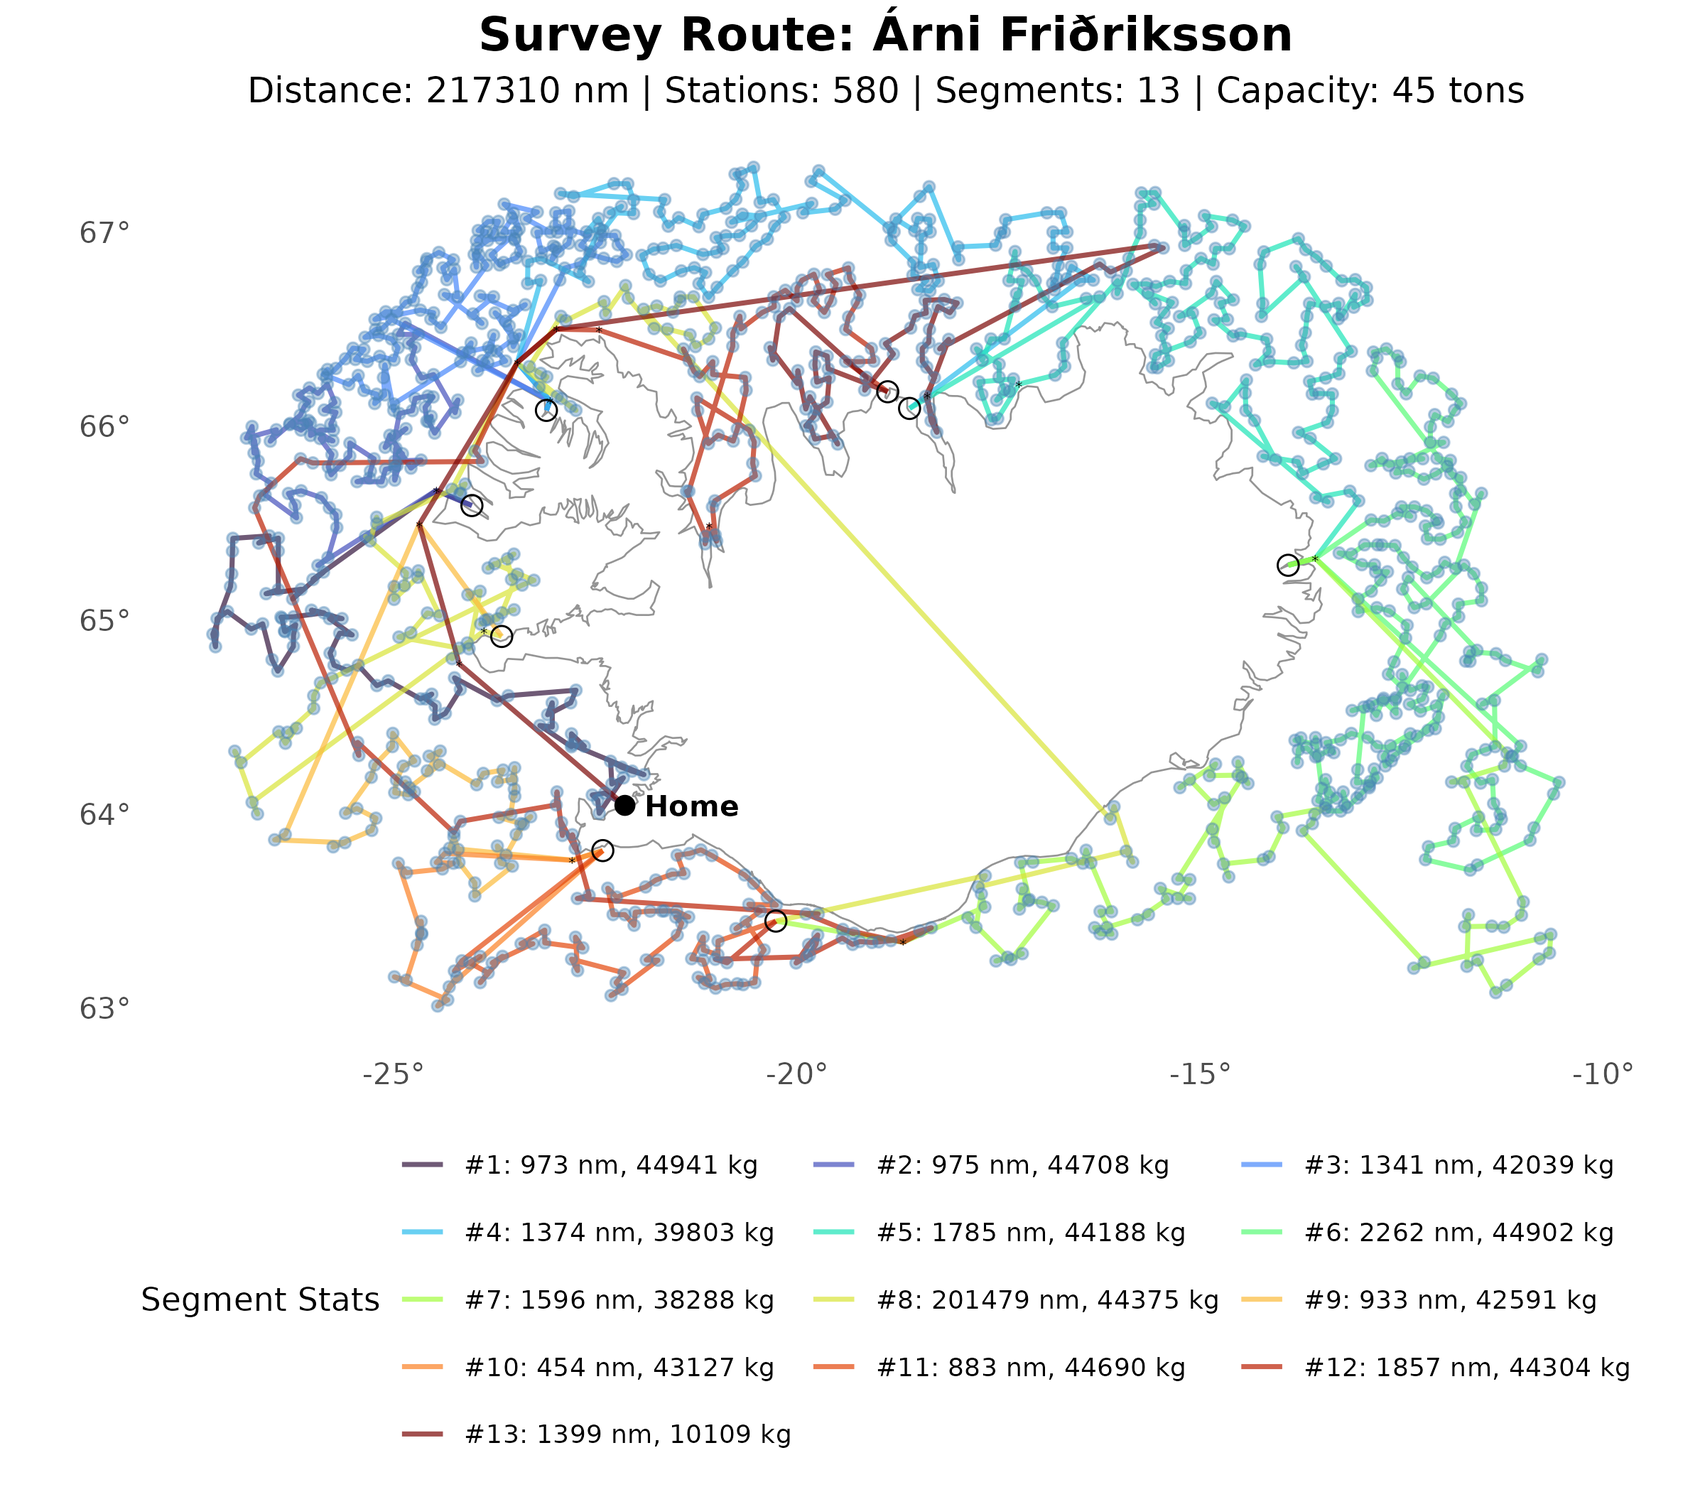
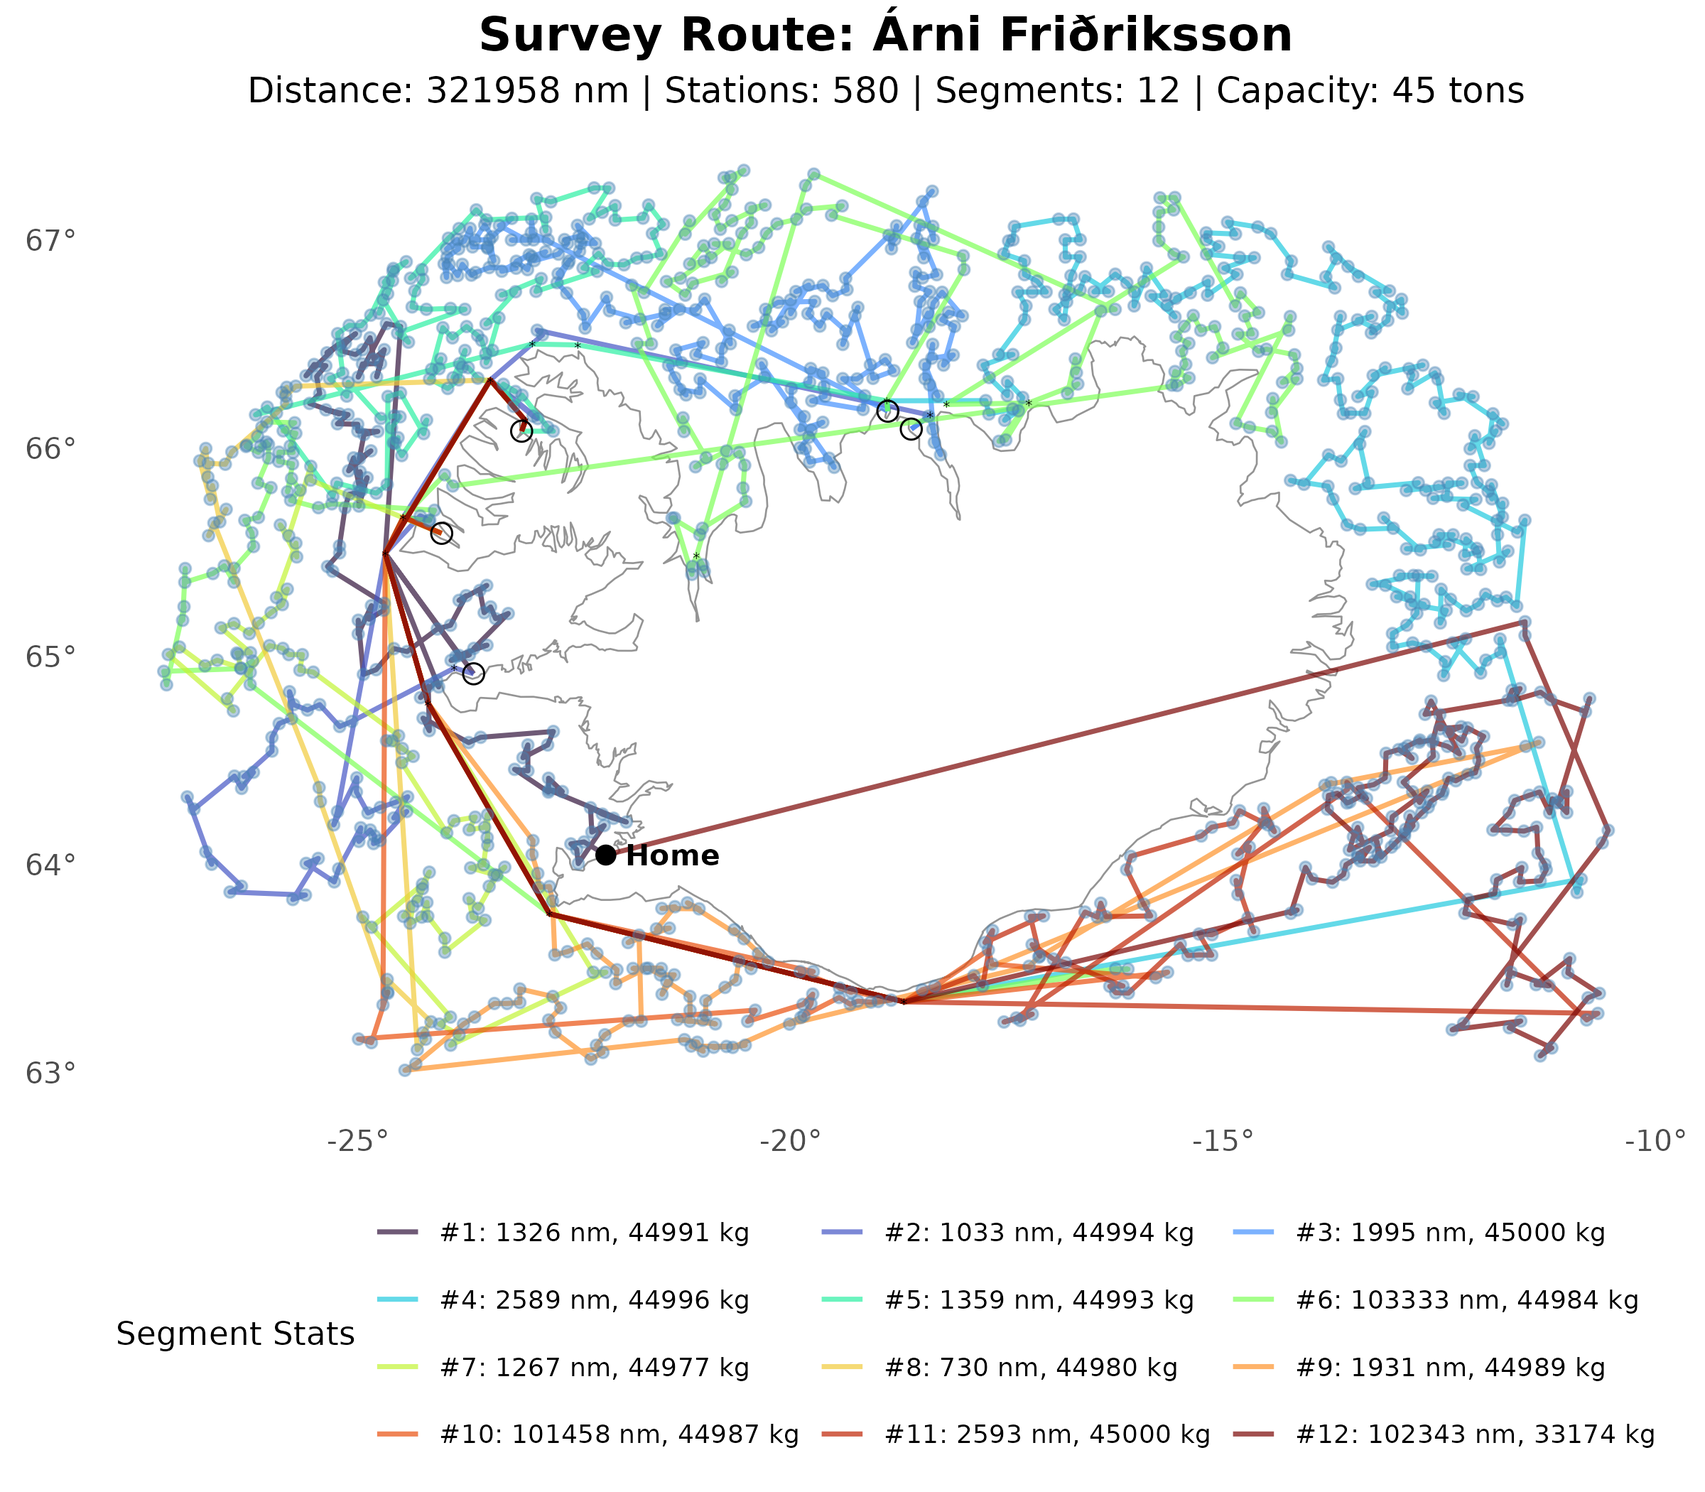
Refactor: Algorithm matches original src/matcapmutheur_v3.c build_greedy_visits.
Note: Change amount type to int as per database schema

diff --git a/src-refactor/init/nearest_neighbor.c b/src-refactor/init/nearest_neighbor.c
@@ -1,5 +1,11 @@
 /* Nearest Neighbor Heuristic with Capacity-Aware Segmentation
- * Uses pre-loaded distance matrix from database
+ *
+ * 1. Start from boat location with empty load
+ * 2. Greedily pick nearest unvisited station that fits capacity
+ * 3. If capacity blocks all options, retry without capacity filter (fallback)
+ * 4. When no station is reachable, insert nearest port and reset load
+ * 5. After visiting a station, if load >= capacity and more remain, insert port
+ * 6. Segment boundaries occur at port insertions
  */
 
 #include <stdio.h>
@@ -8,91 +14,184 @@
 #include "nearest_neighbor.h"
 #include "init_utils.h"
 
-/* Nearest Neighbor with capacity-aware segmentation */
 int nn_solve(const nn_instance_t *inst, nn_solution_t *sol,
              int boat_start_loc_id, int boat_end_loc_id,
-             int boat_capacity) {
-
+             int boat_capacity)
+{
     int total_nodes = inst->num_stations + inst->num_ports;
-
-    // Allocate growable route/segment containers used by the solver output.
     int *visited = (int*)calloc((size_t)total_nodes, sizeof(int));
 
+    // Growable containers for tour and segments
     int tour_cap = 256;
     int *tour_nodes = (int*)malloc((size_t)tour_cap * sizeof(int));
     int tour_len = 0;
 
-    int seg_starts_cap = 64;
-    int seg_ends_cap = 64;
-    int seg_catches_cap = 64;
-    int seg_dists_cap = 64;
+    int seg_starts_cap = 64, seg_ends_cap = 64, seg_catches_cap = 64, seg_dists_cap = 64;
     int *segment_starts = (int*)malloc((size_t)seg_starts_cap * sizeof(int));
     int *segment_ends = (int*)malloc((size_t)seg_ends_cap * sizeof(int));
     int *segment_catches = (int*)malloc((size_t)seg_catches_cap * sizeof(int));
     double *segment_dists = (double*)malloc((size_t)seg_dists_cap * sizeof(double));
     int segment_count = 0;
 
-    int visit_ids_cap = 256;
-    int visit_seg_cap = 256;
+    int visit_ids_cap = 256, visit_seg_cap = 256;
     int *visit_station_ids = (int*)malloc((size_t)visit_ids_cap * sizeof(int));
     int *visit_station_segment = (int*)malloc((size_t)visit_seg_cap * sizeof(int));
     int visit_station_count = 0;
 
     if (!visited || !tour_nodes || !segment_starts || !segment_ends || !segment_catches ||
         !segment_dists || !visit_station_ids || !visit_station_segment) {
-        free(visited);
-        free(tour_nodes);
-        free(segment_starts);
-        free(segment_ends);
-        free(segment_catches);
-        free(segment_dists);
-        free(visit_station_ids);
+        free(visited); free(tour_nodes); free(segment_starts); free(segment_ends);
+        free(segment_catches); free(segment_dists); free(visit_station_ids);
         free(visit_station_segment);
         return -1;
     }
 
-    int current_loc_id = boat_start_loc_id;
+    int current_node_idx = -1;  // -1 = boat (use boat_start_loc_id)
     int current_load = 0;
     double current_segment_dist = 0.0;
     int segment_start_idx = 0;
+    int remaining_stations = inst->num_stations;
 
-    printf("[NN] Start: loc=%d cap=%d stations=%d ports=%d\n",
-           boat_start_loc_id, boat_capacity, inst->num_stations, inst->num_ports);
+    printf("[NN] Start: boat_start=%d boat_end=%d cap=%d stations=%d ports=%d\n",
+           boat_start_loc_id, boat_end_loc_id, boat_capacity, inst->num_stations, inst->num_ports);
 
-    while (1) {
-        double min_dist = 1e100;
-        int nearest_station = -1;
+    while (remaining_stations > 0) {
+        double best_dist = 1e100;
+        int best_station_idx = -1;
 
-        // Pick the nearest still-unvisited station from the current location.
+        // Phase 1: Find nearest unvisited station that fits capacity
         for (int i = 0; i < inst->num_stations; i++) {
-            if (!visited[i]) {
-                double dist = get_distance(inst, current_loc_id, inst->nodes[i].start_loc_id);
-                if (dist > 0.0 && dist < min_dist) {
-                    min_dist = dist;
-                    nearest_station = i;
+            if (visited[i]) continue;
+            int station_amount = inst->nodes[i].amount;
+            // Skip if capacity would be exceeded (but allow if load is empty)
+            if (current_load > 0 && current_load + station_amount > boat_capacity) continue;
+
+            double dist = (current_node_idx < 0)
+                ? min_dist_from_loc_to_node(inst, boat_start_loc_id, i)
+                : min_dist_node_pair(inst, current_node_idx, i);
+            if (dist > 0.0 && dist < best_dist) {
+                best_dist = dist;
+                best_station_idx = i;
+            }
+        }
+
+        // Phase 2: If no candidate found and load is empty, retry without capacity filter
+        if (best_station_idx < 0 && current_load <= 0) {
+            for (int i = 0; i < inst->num_stations; i++) {
+                if (visited[i]) continue;
+                double dist = (current_node_idx < 0)
+                    ? min_dist_from_loc_to_node(inst, boat_start_loc_id, i)
+                    : min_dist_node_pair(inst, current_node_idx, i);
+                if (dist > 0.0 && dist < best_dist) {
+                    best_dist = dist;
+                    best_station_idx = i;
                 }
             }
         }
 
-        if (nearest_station == -1) break;
+        // Phase 3: If still no station, insert nearest port and reset
+        if (best_station_idx < 0) {
+            if (current_node_idx < 0) {
+                printf("[NN] No feasible station from boat start\n");
+                break;
+            }
+            int nearest_port = find_nearest_port(inst, current_node_idx);
+            if (nearest_port < 0) {
+                printf("[NN] No port available (load=%d)\n", current_load);
+                break;
+            }
 
-        int next_catch = (int)(inst->nodes[nearest_station].amount + 0.5);
-        if (current_load + next_catch > boat_capacity && current_load > 0) {
-            // Capacity breach: close current segment at nearest port and reset load.
-            int nearest_port = find_nearest_port(inst, current_loc_id);
+            if (!grow_int_array(&tour_nodes, &tour_cap, tour_len + 1)) {
+                free(visited); free(tour_nodes); free(segment_starts); free(segment_ends);
+                free(segment_catches); free(segment_dists); free(visit_station_ids);
+                free(visit_station_segment);
+                return -1;
+            }
 
-            if (nearest_port != -1) {
-                if (!grow_int_array(&tour_nodes, &tour_cap, tour_len + 1)) return -1;
-                if (!grow_int_array(&segment_starts, &seg_starts_cap, segment_count + 2)) return -1;
-                if (!grow_int_array(&segment_ends, &seg_ends_cap, segment_count + 1)) return -1;
-                if (!grow_int_array(&segment_catches, &seg_catches_cap, segment_count + 1)) return -1;
-                if (!grow_dist_array(&segment_dists, &seg_dists_cap, segment_count + 1)) return -1;
+            int port_loc = inst->nodes[nearest_port].start_loc_id;
+            double d_to_port = get_distance(inst, current_node_idx, port_loc);
+            if (d_to_port > 0.0) current_segment_dist += d_to_port;
+            tour_nodes[tour_len++] = port_loc;
+
+            if (!grow_int_array(&segment_starts, &seg_starts_cap, segment_count + 1) ||
+                !grow_int_array(&segment_ends, &seg_ends_cap, segment_count + 1) ||
+                !grow_int_array(&segment_catches, &seg_catches_cap, segment_count + 1) ||
+                !grow_dist_array(&segment_dists, &seg_dists_cap, segment_count + 1)) {
+                free(visited); free(tour_nodes); free(segment_starts); free(segment_ends);
+                free(segment_catches); free(segment_dists); free(visit_station_ids);
+                free(visit_station_segment);
+                return -1;
+            }
+
+            segment_starts[segment_count] = segment_start_idx;
+            segment_ends[segment_count] = tour_len - 1;
+            segment_catches[segment_count] = current_load;
+            segment_dists[segment_count] = current_segment_dist;
+            segment_count++;
+
+            current_node_idx = nearest_port;
+            current_load = 0;
+            current_segment_dist = 0.0;
+            segment_start_idx = tour_len;
+            continue;
+        }
+
+        // Phase 4: Add selected station to tour
+        int station_amount = inst->nodes[best_station_idx].amount;
+
+        int stat_start = inst->nodes[best_station_idx].start_loc_id;
+        int stat_end = inst->nodes[best_station_idx].end_loc_id;
+
+        if (!grow_int_array(&tour_nodes, &tour_cap, tour_len + ((stat_end != stat_start) ? 2 : 1)) ||
+            !grow_int_array(&visit_station_ids, &visit_ids_cap, visit_station_count + 1) ||
+            !grow_int_array(&visit_station_segment, &visit_seg_cap, visit_station_count + 1)) {
+            free(visited); free(tour_nodes); free(segment_starts); free(segment_ends);
+            free(segment_catches); free(segment_dists); free(visit_station_ids);
+            free(visit_station_segment);
+            return -1;
+        }
+
+        // Compute distance to station entry point
+        double d_to_start = (current_node_idx < 0)
+            ? get_distance(inst, boat_start_loc_id, stat_start)
+            : get_distance(inst, inst->nodes[current_node_idx].end_loc_id, stat_start);
+        if (d_to_start > 0.0) current_segment_dist += d_to_start;
+        tour_nodes[tour_len++] = stat_start;
+
+        // If station has distinct end, add it and compute internal distance
+        if (stat_end != stat_start) {
+            double d_inside = get_distance(inst, stat_start, stat_end);
+            if (d_inside > 0.0) current_segment_dist += d_inside;
+            tour_nodes[tour_len++] = stat_end;
+        }
+
+        current_load += station_amount;
+        visited[best_station_idx] = 1;
+        visit_station_ids[visit_station_count] = inst->nodes[best_station_idx].table_id;
+        visit_station_segment[visit_station_count] = segment_count;
+        visit_station_count++;
+        current_node_idx = best_station_idx;
+        remaining_stations--;
+
+        // Phase 5: After adding station, check if we should insert port
+        if (current_load >= boat_capacity && remaining_stations > 0) {
+            int nearest_port = find_nearest_port(inst, current_node_idx);
+            if (nearest_port >= 0) {
+                if (!grow_int_array(&tour_nodes, &tour_cap, tour_len + 1) ||
+                    !grow_int_array(&segment_starts, &seg_starts_cap, segment_count + 1) ||
+                    !grow_int_array(&segment_ends, &seg_ends_cap, segment_count + 1) ||
+                    !grow_int_array(&segment_catches, &seg_catches_cap, segment_count + 1) ||
+                    !grow_dist_array(&segment_dists, &seg_dists_cap, segment_count + 1)) {
+                    free(visited); free(tour_nodes); free(segment_starts); free(segment_ends);
+                    free(segment_catches); free(segment_dists); free(visit_station_ids);
+                    free(visit_station_segment);
+                    return -1;
+                }
 
                 int port_loc = inst->nodes[nearest_port].start_loc_id;
+                double d_to_port = get_distance(inst, inst->nodes[current_node_idx].end_loc_id, port_loc);
+                if (d_to_port > 0.0) current_segment_dist += d_to_port;
                 tour_nodes[tour_len++] = port_loc;
-
-                double port_dist = get_distance(inst, current_loc_id, port_loc);
-                if (port_dist > 0.0) current_segment_dist += port_dist;
 
                 segment_starts[segment_count] = segment_start_idx;
                 segment_ends[segment_count] = tour_len - 1;
@@ -100,48 +199,25 @@ int nn_solve(const nn_instance_t *inst, nn_solution_t *sol,
                 segment_dists[segment_count] = current_segment_dist;
                 segment_count++;
 
-                current_loc_id = port_loc;
+                current_node_idx = nearest_port;
                 current_load = 0;
                 current_segment_dist = 0.0;
                 segment_start_idx = tour_len;
             }
         }
-
-        int stat_start = inst->nodes[nearest_station].start_loc_id;
-        int stat_end = inst->nodes[nearest_station].end_loc_id;
-
-        // Emit station as start->end legs (or one node when identical).
-        if (!grow_int_array(&tour_nodes, &tour_cap, tour_len + ((stat_end != stat_start) ? 2 : 1))) return -1;
-        if (!grow_int_array(&visit_station_ids, &visit_ids_cap, visit_station_count + 1)) return -1;
-        if (!grow_int_array(&visit_station_segment, &visit_seg_cap, visit_station_count + 1)) return -1;
-
-        double d1 = get_distance(inst, current_loc_id, stat_start);
-        if (d1 > 0.0) current_segment_dist += d1;
-        tour_nodes[tour_len++] = stat_start;
-
-        if (stat_end != stat_start) {
-            double d2 = get_distance(inst, stat_start, stat_end);
-            if (d2 > 0.0) current_segment_dist += d2;
-            tour_nodes[tour_len++] = stat_end;
-            current_loc_id = stat_end;
-        } else {
-            current_loc_id = stat_start;
-        }
-
-        current_load += next_catch;
-        visited[nearest_station] = 1;
-
-        visit_station_ids[visit_station_count] = inst->nodes[nearest_station].table_id;
-        visit_station_segment[visit_station_count] = segment_count;
-        visit_station_count++;
     }
 
+    // Flush final segment
     if (current_load > 0 || segment_count == 0) {
-        // Flush trailing segment even if no terminal port insertion happened.
-        if (!grow_int_array(&segment_starts, &seg_starts_cap, segment_count + 1)) return -1;
-        if (!grow_int_array(&segment_ends, &seg_ends_cap, segment_count + 1)) return -1;
-        if (!grow_int_array(&segment_catches, &seg_catches_cap, segment_count + 1)) return -1;
-        if (!grow_dist_array(&segment_dists, &seg_dists_cap, segment_count + 1)) return -1;
+        if (!grow_int_array(&segment_starts, &seg_starts_cap, segment_count + 1) ||
+            !grow_int_array(&segment_ends, &seg_ends_cap, segment_count + 1) ||
+            !grow_int_array(&segment_catches, &seg_catches_cap, segment_count + 1) ||
+            !grow_dist_array(&segment_dists, &seg_dists_cap, segment_count + 1)) {
+            free(visited); free(tour_nodes); free(segment_starts); free(segment_ends);
+            free(segment_catches); free(segment_dists); free(visit_station_ids);
+            free(visit_station_segment);
+            return -1;
+        }
         segment_starts[segment_count] = segment_start_idx;
         segment_ends[segment_count] = tour_len - 1;
         segment_catches[segment_count] = current_load;
@@ -149,10 +225,17 @@ int nn_solve(const nn_instance_t *inst, nn_solution_t *sol,
         segment_count++;
     }
 
+    // Calculate total distance including return to boat end
     double total_dist = 0.0;
     for (int i = 0; i < segment_count; i++) total_dist += segment_dists[i];
-    double return_dist = get_distance(inst, current_loc_id, boat_end_loc_id);
-    if (return_dist > 0.0) total_dist += return_dist;
+    int last_node_idx = (current_node_idx >= 0) ? current_node_idx : -1;
+    if (last_node_idx >= 0) {
+        double d_return = get_distance(inst, inst->nodes[last_node_idx].end_loc_id, boat_end_loc_id);
+        if (d_return > 0.0) total_dist += d_return;
+    } else {
+        double d_return = get_distance(inst, boat_start_loc_id, boat_end_loc_id);
+        if (d_return > 0.0) total_dist += d_return;
+    }
 
     sol->tour = tour_nodes;
     sol->tour_length = tour_len;

diff --git a/src-refactor/init/init_utils.h b/src-refactor/init/init_utils.h
@@ -51,4 +51,40 @@ static inline int find_nearest_port(const nn_instance_t *inst, int from_loc_id)
     return nearest;
 }
 
+/* Get minimum distance between two nodes using min-pair of endpoints.
+ * For nodes with (start_loc, end_loc), tries all 4 combinations and picks cheapest. */
+static inline double min_dist_node_pair(const nn_instance_t *inst, int a_idx, int b_idx)
+{
+    int a_start = inst->nodes[a_idx].start_loc_id;
+    int a_end = inst->nodes[a_idx].end_loc_id;
+    int b_start = inst->nodes[b_idx].start_loc_id;
+    int b_end = inst->nodes[b_idx].end_loc_id;
+
+    double d_ss = get_distance(inst, a_start, b_start);
+    double d_se = get_distance(inst, a_start, b_end);
+    double d_es = get_distance(inst, a_end, b_start);
+    double d_ee = get_distance(inst, a_end, b_end);
+
+    double best = -1.0;
+    if (d_ss > 0.0) best = d_ss;
+    if (d_se > 0.0 && (best < 0.0 || d_se < best)) best = d_se;
+    if (d_es > 0.0 && (best < 0.0 || d_es < best)) best = d_es;
+    if (d_ee > 0.0 && (best < 0.0 || d_ee < best)) best = d_ee;
+    return best;
+}
+
+/* Get minimum distance from a location to a node's endpoints. */
+static inline double min_dist_from_loc_to_node(const nn_instance_t *inst, int from_loc, int to_node_idx)
+{
+    int to_start = inst->nodes[to_node_idx].start_loc_id;
+    int to_end = inst->nodes[to_node_idx].end_loc_id;
+
+    double d_start = get_distance(inst, from_loc, to_start);
+    double d_end = get_distance(inst, from_loc, to_end);
+
+    if (d_start < 0.0) return d_end;
+    if (d_end < 0.0) return d_start;
+    return (d_start < d_end) ? d_start : d_end;
+}
+
 #endif

diff --git a/src-refactor/init/greedy_insertion.c b/src-refactor/init/greedy_insertion.c
@@ -108,7 +108,7 @@ int gi_solve(const nn_instance_t *inst, nn_solution_t *sol,
 
     for (int ord = 0; ord < station_order_n; ord++) {
         int station_idx = station_order[ord];
-        int next_catch = (int)(inst->nodes[station_idx].amount + 0.5);
+        int next_catch = inst->nodes[station_idx].amount;
 
         // Split segment at nearest port when next station would exceed capacity.
         if (current_load + next_catch > boat_capacity && current_load > 0) {

diff --git a/src-refactor/init/gsp_init_mode.c b/src-refactor/init/gsp_init_mode.c
@@ -114,7 +114,7 @@ static int load_nodes(sqlite3 *db, nn_instance_t *inst) {
         inst->nodes[idx].table_id = sqlite3_column_int(stmt, 0);
         inst->nodes[idx].start_loc_id = sqlite3_column_int(stmt, 1);
         inst->nodes[idx].end_loc_id = sqlite3_column_int(stmt, 2);
-        inst->nodes[idx].amount = sqlite3_column_double(stmt, 3);
+        inst->nodes[idx].amount = sqlite3_column_int(stmt, 3);
         inst->nodes[idx].is_port = 0;
         idx++;
     }

diff --git a/src-refactor/include/init_types.h b/src-refactor/include/init_types.h
@@ -5,7 +5,7 @@ typedef struct {
     int table_id;      /* stations.id or ports.id */
     int start_loc_id;  /* locations.id used as travel start */
     int end_loc_id;    /* locations.id used as travel end (ports: same as start) */
-    double amount;
+    int amount;
     int is_port;
 } nn_node_t;
 
